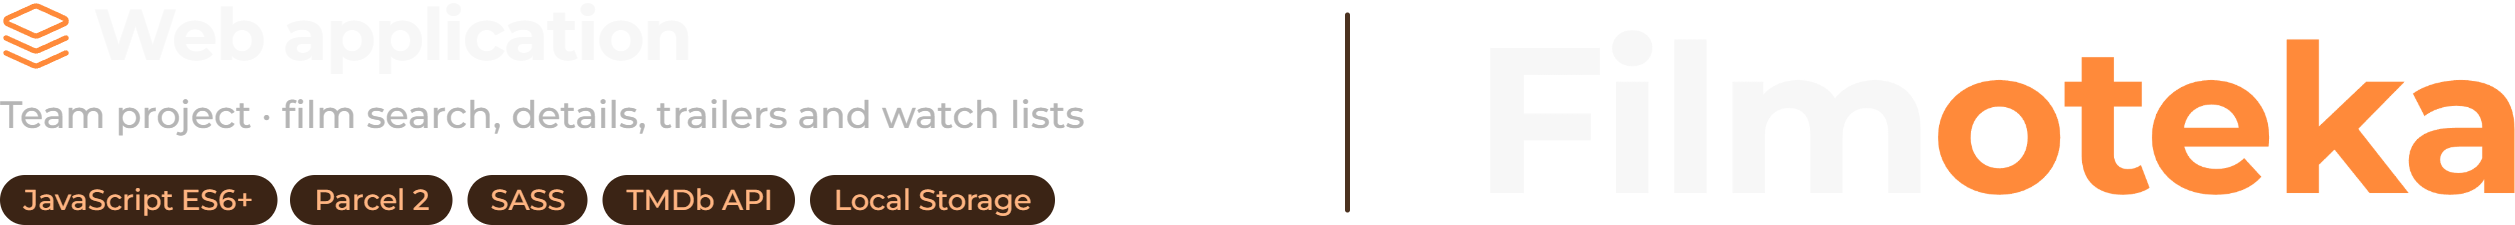
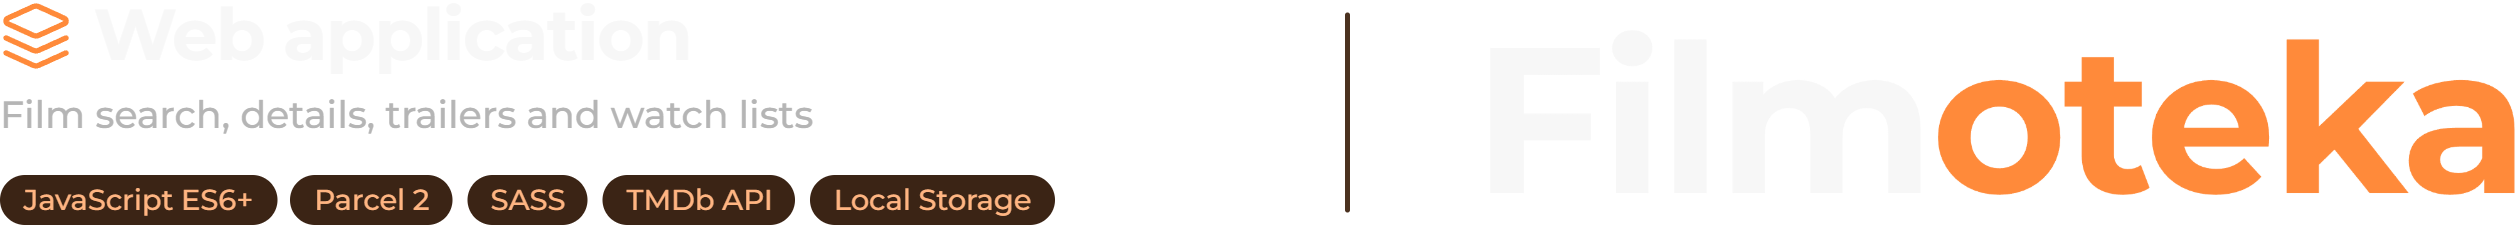
docs(readme): describe the technology and the functions, not the course or the group
- the About, Status and Departures texts say what the project does and how it is built
- the team stays in the Team section only
- the README no longer mentions a course, an exercise or a university

Changed region(s): [[0.0, 0.4356, 0.4342, 0.5911]]

diff --git a/README.md b/README.md
@@ -1,7 +1,7 @@
 <p align="center">
   <picture>
     <source media="(prefers-color-scheme: dark)" srcset="docs/images/banner-dark.png">
-    <img src="docs/images/banner-light.png" alt="Filmoteka: a film browser, a team project" width="100%">
+    <img src="docs/images/banner-light.png" alt="Filmoteka: a film browser on the TMDb API" width="100%">
   </picture>
 </p>
 
@@ -13,10 +13,9 @@
 
 <a href="https://damtchorzewski.github.io/tmdb-movie-browser/"><img src="docs/images/open-site.png" alt="Open the live site" width="130"></a>
 
-The "Filmoteka" website created by the HiFiveTeam team is a place where you can find reviews and descriptions of films
-that are worth watching. It is an ideal source of inspiration for cinema lovers and people who want to expand their
-knowledge of the film world. Intuitive and clear navigation will allow you to quickly find the videos you are
-interested in and read the descriptions or watch the trailer.
+**Filmoteka** is a film browser on The Movie Database (TMDb) API: the trending films of the day, a title search, a
+details window with the trailer, and personal "watched" and "queue" lists kept in the browser. A static site in
+vanilla JavaScript modules, SASS and Parcel, published to GitHub Pages.
 
 - **Trending films.** The home page shows the trends of the day with pagination; each film is a card with the basic
   information.
@@ -30,11 +29,8 @@ interested in and read the descriptions or watch the trailer.
 - **The team window.** The footer opens the window with the people who made the site (`modal-team.js`).
 - **Deployed by Actions.** A push to `main` builds the site and publishes it to the `gh-pages` branch.
 
-The goals of the project: a responsive design adapted to different devices, readable and organised code, and working
-features with intuitive interaction.
-
-> **Status:** a finished course project. The film data comes from The Movie Database (TMDb), so the posters and the
-> trending list change over time.
+> **Status:** the film data comes from The Movie Database (TMDb), so the posters and the trending list change over
+> time.
 
 ## Tech stack
 
@@ -127,18 +123,17 @@ Commits in English. `deploy.yml` builds every push to `main` and publishes the r
 
 **Departures from the standards (and why):**
 
-- **A team project from a course:** nine people worked on feature branches straight into `main`; there is no
-  `develop`.
+- **Feature branches straight into `main`:** nine contributors worked this way; there is no `develop`.
 - **No tests, no CI beyond the deploy workflow, no `.env.example`:** the site has no configuration (see above).
 - **The TMDb key is in the source:** a static site cannot keep it secret; it is a public client key.
 - **npm, not pnpm, and no `.nvmrc`:** the project predates the standards.
-- **`package.json`:** `author` still names the author of the GoIT Parcel template; the project is under the MIT license
+- **`package.json`:** `author` still names the author of the Parcel starter template; the project is under the MIT license
   (`LICENSE`).
 - **Documentation:** the template's `README.en.md` and `README.pl.md` (generic Parcel instructions) were removed; the
   Parcel documentation covers what they said.
 - **README images** are made by `tools/readme-images` (profile `tmdb-movie-browser`) from the live site; the logo
   is a wordmark.
-- **No DamReboot footer:** a team project, not a company one.
+- **No DamReboot footer:** the repository belongs to a team of authors.
 
 ## Documentation
 
@@ -148,7 +143,7 @@ Commits in English. `deploy.yml` builds every push to `main` and publishes the r
 
 ## Team
 
-HiFiveTeam, a team of the course; the roles are the ones the team wrote down.
+HiFiveTeam; the roles are the ones the team wrote down.
 
 | Member                                                           | Role and work                                                                                                                                                                                                                  |
 | ---------------------------------------------------------------- | ------------------------------------------------------------------------------------------------------------------------------------------------------------------------------------------------------------------------------ |

diff --git a/docs/repository.md b/docs/repository.md
@@ -25,18 +25,18 @@ https://damtchorzewski.github.io/tmdb-movie-browser/
 **Tagi (Topics):**
 
 ```text
-movies tmdb-api movie-database javascript sass parcel pagination local-storage responsive-design github-pages github-actions team-project
+movies tmdb-api movie-database javascript sass parcel pagination local-storage responsive-design github-pages github-actions
 ```
 
 Z GitHub CLI (`gh`) to samo jedną komendą:
 
 ```bash
-gh repo edit DamTchorzewski/tmdb-movie-browser --homepage "https://damtchorzewski.github.io/tmdb-movie-browser/" --description "Movie browser on the TMDb API: search, trailers and watchlists in vanilla JavaScript with Parcel." --add-topic movies --add-topic tmdb-api --add-topic movie-database --add-topic javascript --add-topic sass --add-topic parcel --add-topic pagination --add-topic local-storage --add-topic responsive-design --add-topic github-pages --add-topic github-actions --add-topic team-project
+gh repo edit DamTchorzewski/tmdb-movie-browser --homepage "https://damtchorzewski.github.io/tmdb-movie-browser/" --description "Movie browser on the TMDb API: search, trailers and watchlists in vanilla JavaScript with Parcel." --add-topic movies --add-topic tmdb-api --add-topic movie-database --add-topic javascript --add-topic sass --add-topic parcel --add-topic pagination --add-topic local-storage --add-topic responsive-design --add-topic github-pages --add-topic github-actions --add-topic
 ```
 
 ## Ustawienia do włączenia
 
-| Gdzie (GitHub)                      | Co ustawić                                           |
+| Gdzie (GitHub) | Co ustawić |
 | ----------------------------------- | ---------------------------------------------------- |
-| Settings → Pages                    | Source: gałąź `gh-pages` (publikuje ją `deploy.yml`) |
-| Settings → General → Default branch | `main` (już jest)                                    |
+| Settings → Pages | Source: gałąź `gh-pages` (publikuje ją `deploy.yml`) |
+| Settings → General → Default branch | `main` (już jest) |
